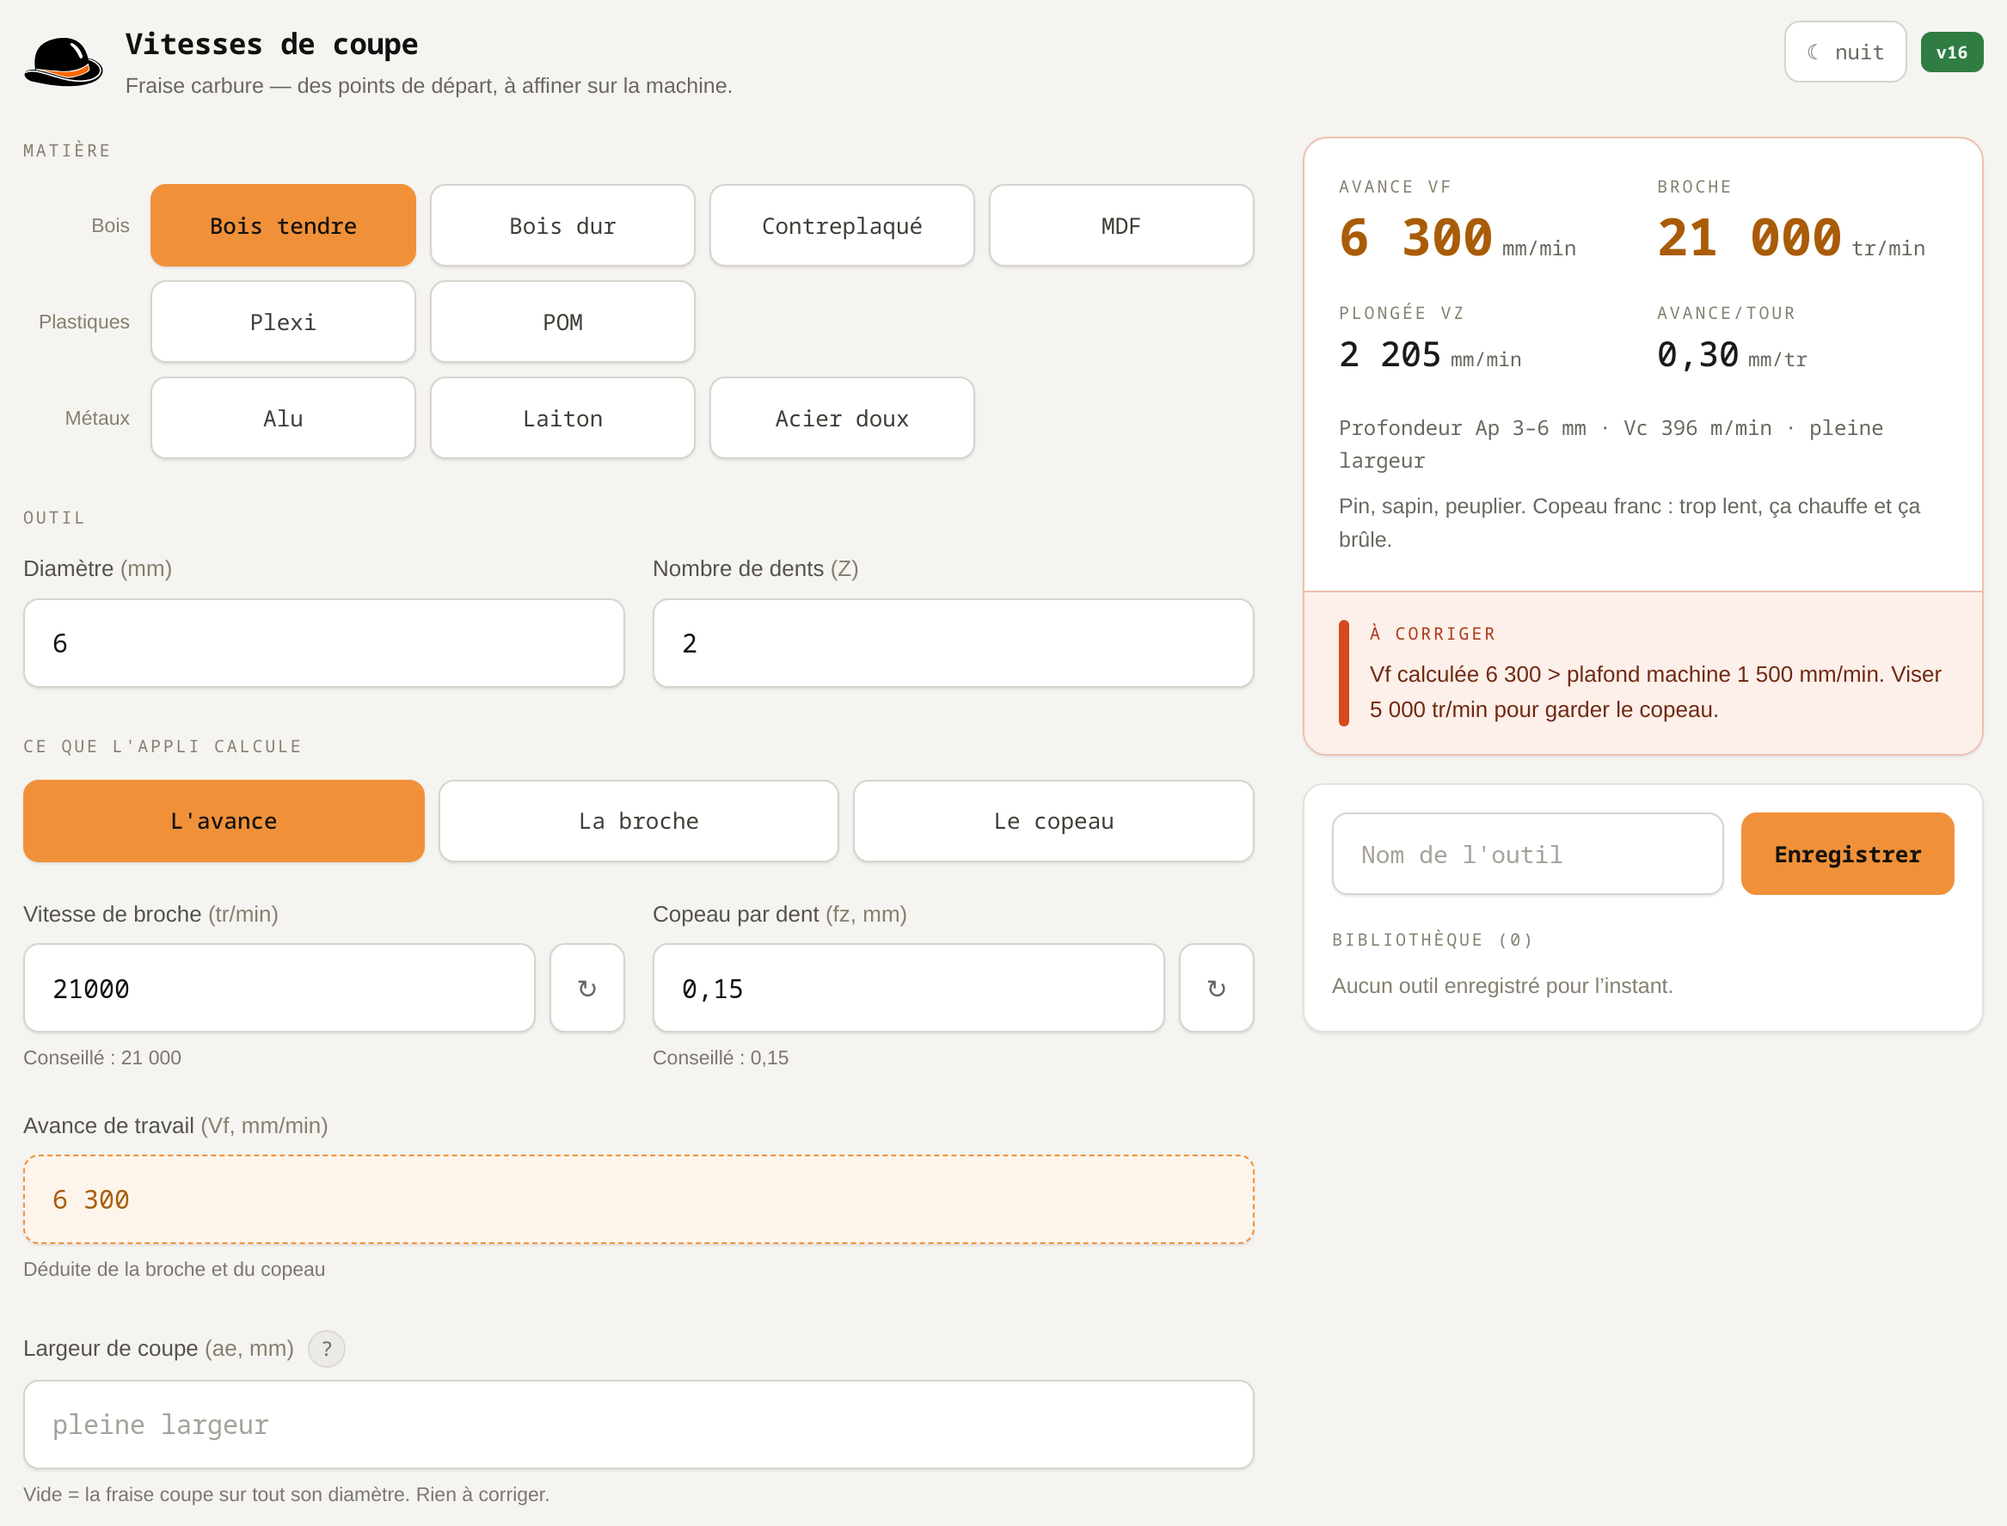
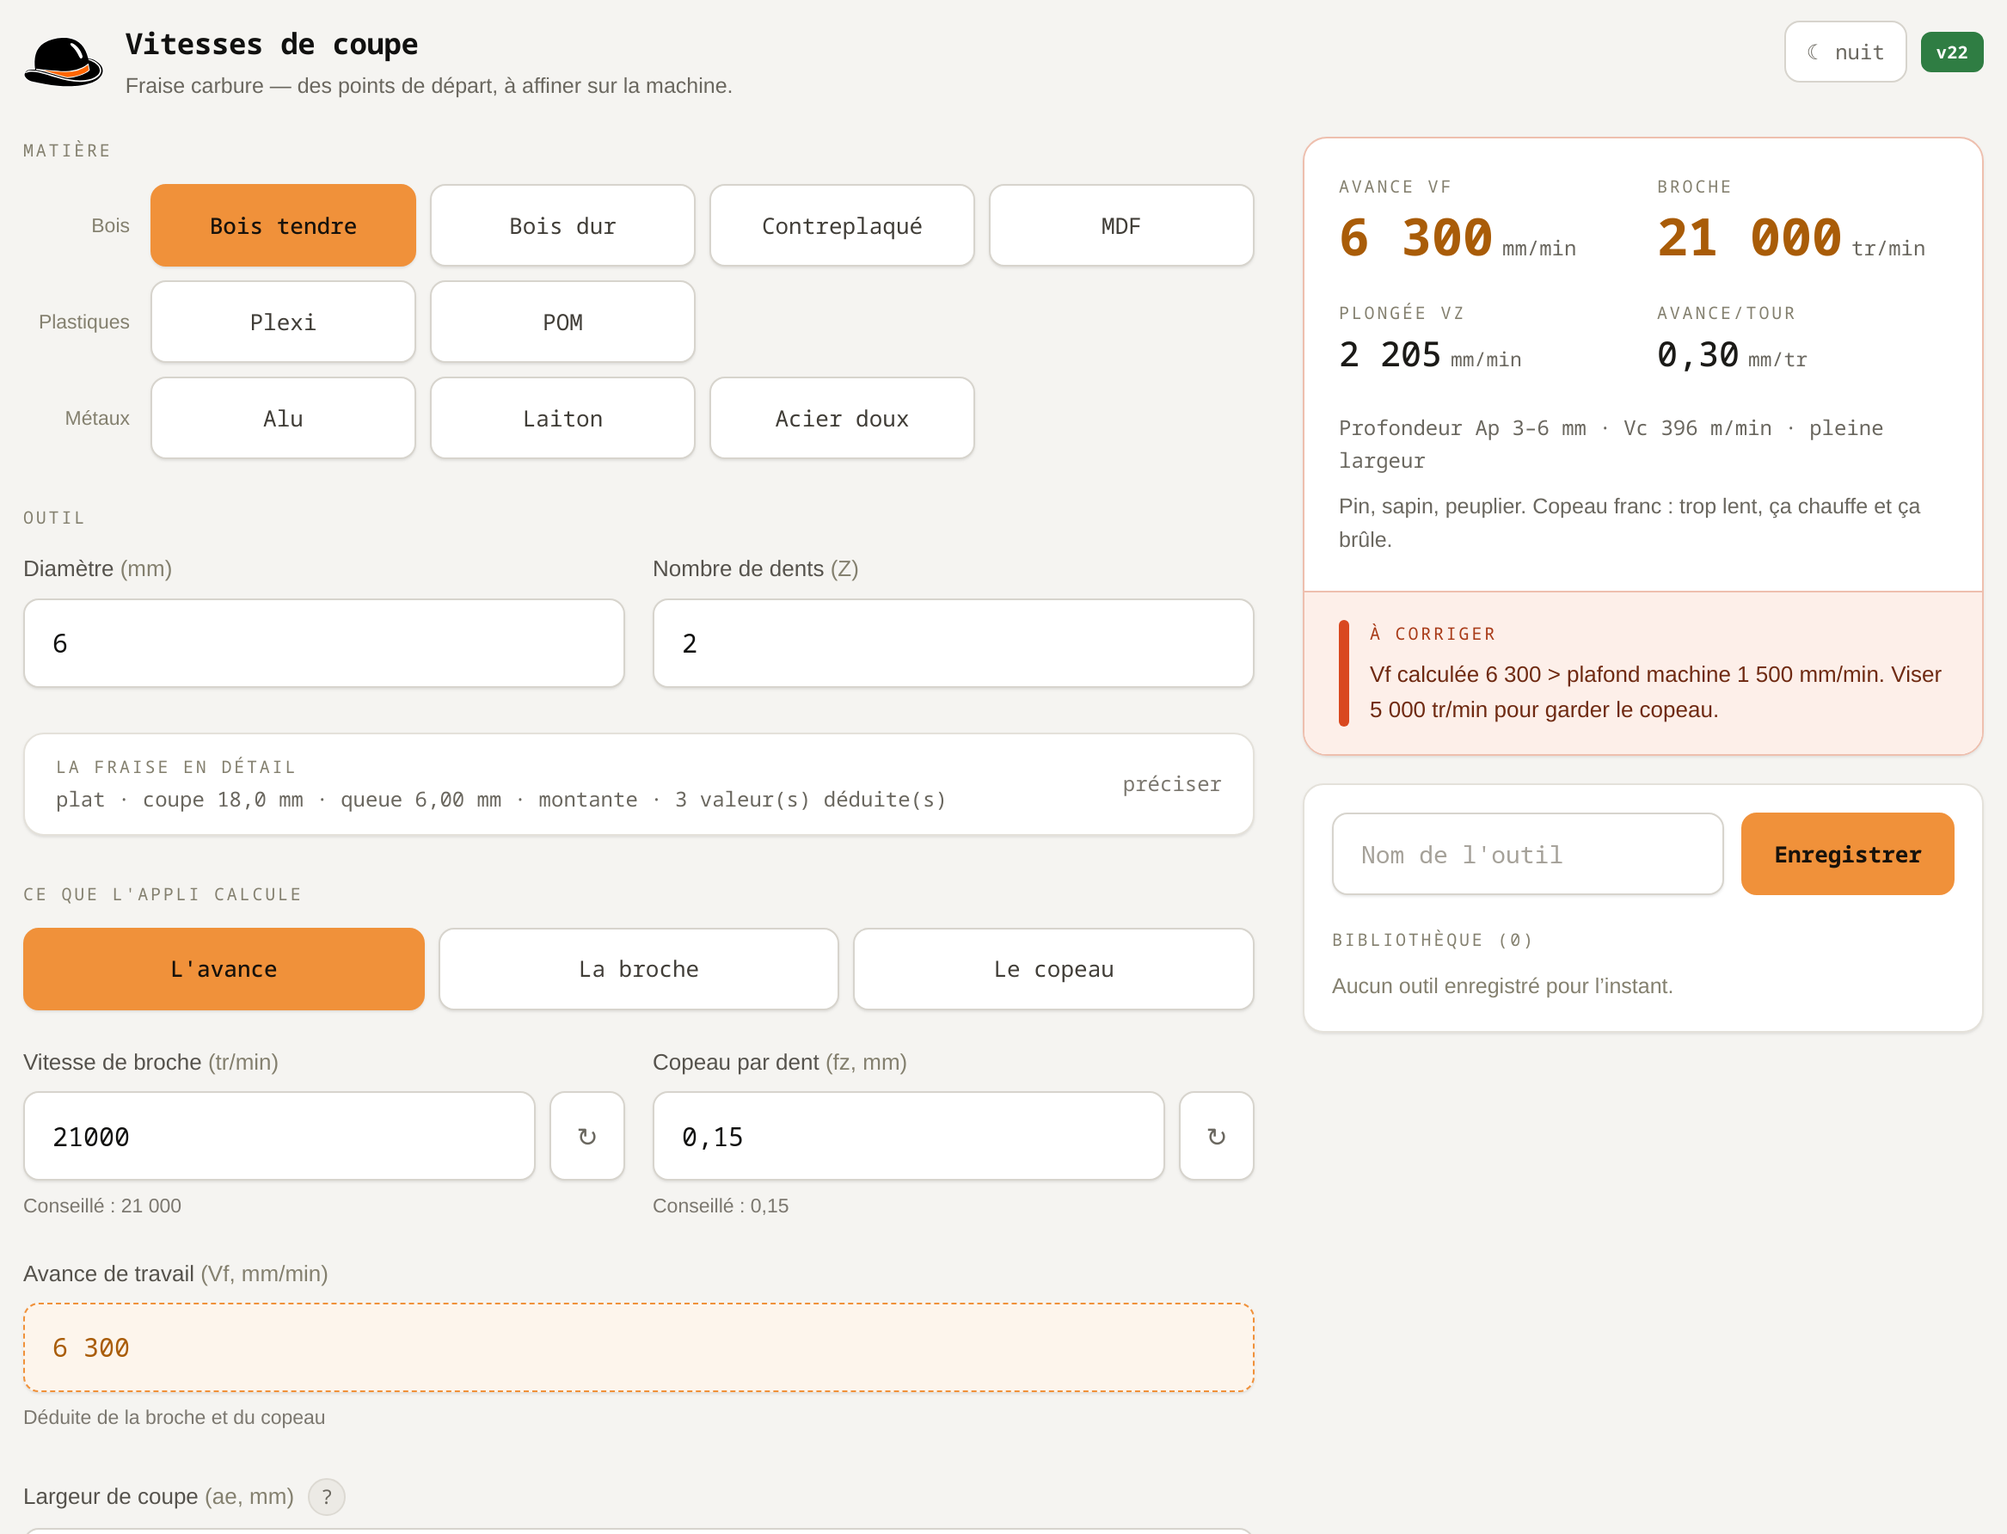
La fraise en detail : ce qui ne change pas les vitesses mais compte quand meme
Repli « La fraise en detail », ferme par defaut : forme du bout (plat,
boule, torique, V), hauteur de coupe, longueur totale, diametre de queue,
rayon de coin ou angle de pointe selon la forme, sens de l'helice, bout
plongeant. Qui ne l'ouvre pas garde l'appli d'avant.

RIEN DE TOUT CELA N'ENTRE DANS Vf = N x Z x fz, et c'est dit dans le
panneau. Cela sert a deux choses :

1. le fichier d'outil FreeCAD decrivait jusqu'ici une fraise INVENTEE —
   hauteur de coupe 3 x diametre, longueur 8 x diametre, queue au
   diametre de coupe. FreeCAD s'en sert pour la simulation de collision
   et la profondeur atteignable : il decrivait donc une fraise qui
   n'existe pas. Il porte maintenant les vraies cotes, la bonne forme
   (shape-type) et son parametre propre ;

2. trois avertissements que la formule ne peut pas donner : fraise
   descendante qui n'evacue pas vers le haut, bout non plongeant qui
   impose une entree en rampe, et hauteur de coupe plus courte que la
   passe conseillee.

Le resume du panneau replie dit l'essentiel sans l'ouvrir, et signale
combien de valeurs sont encore deduites.

CORRECTIF trouve par la console : le code appelait frd(), le formateur de
l'appli d'AVANT la refonte v16, renomme fmt() depuis. rendre() levait une
exception a chaque appel — le resume et les avertissements restaient
vides sans que rien ne le dise. Lire la console AVANT de conclure.

Cache a coupe-v22.

diff --git a/site/appli/coupe/index.html b/site/appli/coupe/index.html
@@ -160,6 +160,8 @@ input:focus{border-color:var(--accent);}
 /* Le champ DEDUIT : bordure pointillee, encre accent, non saisissable. */
 input.calcule{background:var(--calc); border:1px dashed var(--accent); color:var(--accent-ink);}
 .aide{font-size:11.5px; color:var(--help); padding-top:6px; display:block;}
+.case{display:flex; align-items:flex-start; gap:10px; font-size:13px; color:var(--label); cursor:pointer;}
+.case input{width:18px; height:18px; margin:1px 0 0; accent-color:var(--accent); flex:0 0 auto;}
 .avec-reset{display:grid; grid-template-columns:1fr 44px; gap:8px;}
 .reset{
   min-height:52px; border-radius:9px; cursor:pointer;
@@ -365,6 +367,54 @@ textarea{
         </div>
       </section>
 
+      <section class="panneau">
+        <button class="panneau-tete" id="teteFraise" type="button" aria-expanded="false" aria-controls="corpsFraise">
+          <span style="min-width:0">
+            <span class="sect-titre" style="display:block">La fraise en détail</span>
+            <span class="resume" id="resumeFraise"></span>
+          </span>
+          <span class="bascule" id="basculeFraise">préciser</span>
+        </button>
+        <div class="panneau-corps" id="corpsFraise" hidden>
+          <div class="sous" style="font-size:12.5px; color:var(--help); padding-bottom:14px">
+            Rien de tout ceci ne change les vitesses. C'est ce qui part dans le
+            fichier d'outil FreeCAD — et ce qui permet de prévenir de ce que la
+            formule ignore.
+          </div>
+          <div class="champ" style="margin-bottom:14px">
+            <label class="lbl">Forme du bout</label>
+            <div class="segments" id="formes"></div>
+          </div>
+          <div class="grille-machine">
+            <div class="champ">
+              <label for="hcoupe">Hauteur de coupe <span class="u">(mm)</span></label>
+              <input id="hcoupe" type="text" inputmode="decimal" placeholder="déduite">
+            </div>
+            <div class="champ">
+              <label for="lgtotale">Longueur totale <span class="u">(mm)</span></label>
+              <input id="lgtotale" type="text" inputmode="decimal" placeholder="déduite">
+            </div>
+            <div class="champ">
+              <label for="queue">Diamètre de queue <span class="u">(mm)</span></label>
+              <input id="queue" type="text" inputmode="decimal" placeholder="= diamètre de coupe">
+            </div>
+            <div class="champ" id="champExtra" hidden>
+              <label for="extra" id="lblExtra">Rayon de coin <span class="u">(mm)</span></label>
+              <input id="extra" type="text" inputmode="decimal" placeholder="déduit">
+            </div>
+          </div>
+          <div class="champ" style="margin-top:14px">
+            <label class="lbl">Sens de l'hélice</label>
+            <div class="segments" id="helices" style="flex-wrap:wrap"></div>
+            <span class="aide" id="aideHelice"></span>
+          </div>
+          <label class="case" style="margin-top:14px">
+            <input type="checkbox" id="plongeant" checked>
+            <span>Bout plongeant (fishtail) — peut entrer droit dans la matière</span>
+          </label>
+        </div>
+      </section>
+
       <section>
         <div class="sect-titre">Ce que l'appli calcule</div>
         <div class="segments" id="modes"></div>
@@ -557,12 +607,59 @@ function matParId(id){
   return MATS[0].items[0];
 }
 
+/* --- La fraise elle-même ---------------------------------------------
+   Rien ici n'entre dans Vf = N x Z x fz : la géométrie ne change PAS les
+   vitesses. Elle sert au fichier d'outil FreeCAD — qui décrit sinon une
+   fraise inventée — et aux avertissements que la formule ne peut pas
+   donner. Mêmes valeurs que `coupe_noyau.py`, côté appli de bureau. */
+var FORMES = [
+  {id:'plat',    label:'Plat',    shape:'endmill.fcstd',  type:'Endmill',  extra:null},
+  {id:'boule',   label:'Boule',   shape:'ballend.fcstd',  type:'Ballend',  extra:null},
+  {id:'torique', label:'Torique', shape:'bullnose.fcstd', type:'Bullnose',
+   extra:{label:'Rayon de coin', unite:'mm', cle:'CornerRadius', defaut:function(d){return Math.round(d/6*100)/100;}}},
+  {id:'vbit',    label:'V',       shape:'v-bit.fcstd',    type:'V-bit',
+   extra:{label:'Angle de pointe', unite:'°', cle:'CuttingEdgeAngle', defaut:function(){return 90;}}}
+];
+var HELICES = [
+  {id:'montante', label:'Montante',
+   note:'Les copeaux sortent vers le haut : rainures profondes possibles, mais la face du dessus s’écaille.'},
+  {id:'descendante', label:'Descendante',
+   note:'Belle face du dessus, mais les copeaux sont tassés dans la rainure.',
+   alerte:'Fraise descendante : les copeaux ne s’évacuent pas vers le haut. Passes moins profondes, et surveiller l’échauffement.'},
+  {id:'compression', label:'Compression',
+   note:'Propre des deux côtés, mais il lui faut une profondeur suffisante pour que la partie basse morde.',
+   alerte:'Fraise de compression : sous une certaine profondeur, la partie basse ne travaille pas et l’intérêt disparaît.'},
+  {id:'droite', label:'Droite',
+   note:'Pas d’hélice : effort axial faible, évacuation médiocre.'}
+];
+function formeParId(id){ for(var i=0;i<FORMES.length;i++) if(FORMES[i].id===id) return FORMES[i]; return FORMES[0]; }
+function heliceParId(id){ for(var i=0;i<HELICES.length;i++) if(HELICES[i].id===id) return HELICES[i]; return HELICES[0]; }
+
+/* Complète la géométrie, en déduisant ce qui n'a pas été saisi. */
+function geometrie(){
+  var d = num(S.d, 6);
+  var f = formeParId(S.forme);
+  var g = {forme:f, diametre:d,
+           hauteurCoupe:num(S.hcoupe, Math.round(d*3*100)/100),
+           longueur:num(S.lgtotale, Math.round(d*8*100)/100),
+           queue:num(S.queue, d),
+           deduit:[]};
+  if(!num(S.hcoupe,0)) g.deduit.push('hauteur de coupe');
+  if(!num(S.lgtotale,0)) g.deduit.push('longueur');
+  if(!num(S.queue,0)) g.deduit.push('queue');
+  if(f.extra) g.extra = num(S.extra, f.extra.defaut(d));
+  if(g.longueur < g.hauteurCoupe) g.longueur = Math.round(g.hauteurCoupe*1.5*100)/100;
+  return g;
+}
+
 /* --- État. `n`, `fz`, `vf` vides = on suit la valeur conseillée. ------ */
 var S = {
   mat:'bois-tendre', d:'6', z:'2', mode:'avance',
   n:'', fz:'', vf:'', ae:'',
   mMin:'1000', mMax:'24000', plunge:'35', vfMax:'1500',
   rapidH:'8000', rapidV:'2700',
+  forme:'plat', hcoupe:'', lgtotale:'', queue:'', extra:'',
+  helice:'montante', plongeant:true, fraiseOpen:false,
   machineOpen:false, aeOpen:false, tool:'', lib:[]
 };
 var K_LIB='fs_tools', K_PREFS='fs_prefs', K_THEME='coupe_theme';
@@ -668,6 +765,32 @@ function construireMatieres(){
     ligne.appendChild(lbl); ligne.appendChild(grille); c.appendChild(ligne);
   });
 }
+function construireFormes(){
+  var c = $('formes'); c.innerHTML='';
+  FORMES.forEach(function(f){
+    var b = document.createElement('button');
+    b.type='button'; b.className='choix'+(S.forme===f.id?' on':''); b.textContent=f.label;
+    b.onclick=function(){ S.forme=f.id; S.extra=''; construireFormes(); rendre(); };
+    c.appendChild(b);
+  });
+  var f = formeParId(S.forme);
+  $('champExtra').hidden = !f.extra;
+  if(f.extra){
+    $('lblExtra').innerHTML = f.extra.label+' <span class="u">('+f.extra.unite+')</span>';
+    $('extra').placeholder = 'déduit';
+  }
+}
+function construireHelices(){
+  var c = $('helices'); c.innerHTML='';
+  HELICES.forEach(function(h){
+    var b = document.createElement('button');
+    b.type='button'; b.className='choix'+(S.helice===h.id?' on':''); b.textContent=h.label;
+    b.style.flex='1 1 40%';
+    b.onclick=function(){ S.helice=h.id; construireHelices(); rendre(); };
+    c.appendChild(b);
+  });
+  $('aideHelice').textContent = heliceParId(S.helice).note;
+}
 function construireModes(){
   var c = $('modes'); c.innerHTML='';
   [['avance',"L'avance"],['broche','La broche'],['copeau','Le copeau']].forEach(function(p){
@@ -726,6 +849,27 @@ function rendre(){
         + (r.ae > 0 ? 'ae ' + String(num(S.ae,0)).replace('.', ',') + ' mm' : 'pleine largeur');
   $('oNote').textContent = r.m.note;
 
+  // Ce que la géométrie impose et que la formule ne dit pas.
+  var g = geometrie();
+  var avertFraise = [];
+  var h = heliceParId(S.helice);
+  if(h.alerte) avertFraise.push(h.alerte);
+  if(!S.plongeant) avertFraise.push('Bout non plongeant : entrer en rampe ou en '
+    + 'hélice, jamais droit dans la matière.');
+  var profondeurs = (r.m.ap || '').match(/[\d,]+/g) || [];
+  var apMax = 0;
+  profondeurs.forEach(function(x){ var v=parseFloat(x.replace(',','.')); if(v>apMax) apMax=v; });
+  if(apMax && g.hauteurCoupe < apMax)
+    avertFraise.push('La fraise ne coupe que sur '+fmt(g.hauteurCoupe,1)+' mm, moins '
+      + 'que la passe conseillée : plusieurs passes, ou une fraise plus longue.');
+  r.warns = r.warns.concat(avertFraise);
+
+  // Le résumé du panneau replié, pour savoir sans l'ouvrir.
+  $('resumeFraise').textContent = g.forme.label.toLowerCase()
+    + ' · coupe ' + fmt(g.hauteurCoupe,1) + ' mm · queue ' + fmt(g.queue,2) + ' mm · '
+    + heliceParId(S.helice).label.toLowerCase()
+    + (g.deduit.length ? ' · ' + g.deduit.length + ' valeur(s) déduite(s)' : '');
+
   var alerte = r.warns.length > 0;
   $('carteResultat').classList.toggle('alerte', alerte);
   $('blocAvert').hidden = !alerte;
@@ -774,8 +918,13 @@ function rendreBiblio(){
       S.mat = it.mat; S.d = String(it.d); S.z = String(it.z);
       S.n = String(it.n); S.fz = String(it.fz); S.ae = it.ae ? String(it.ae) : '';
       S.vf = ''; S.mode = 'avance';
+      S.forme = it.forme || 'plat'; S.hcoupe = it.hcoupe || ''; S.lgtotale = it.lgtotale || '';
+      S.queue = it.queue || ''; S.extra = it.extra || '';
+      S.helice = it.helice || 'montante'; S.plongeant = (it.plongeant !== false);
       $('d').value = S.d; $('z').value = S.z; $('ae').value = S.ae;
-      construireMatieres(); construireModes(); rendre();
+      ['hcoupe','lgtotale','queue','extra'].forEach(function(k){ $(k).value = S[k]; });
+      $('plongeant').checked = S.plongeant;
+      construireMatieres(); construireModes(); construireFormes(); construireHelices(); rendre();
       window.scrollTo({top:0, behavior:'smooth'});
     };
     var del = document.createElement('button');
@@ -787,11 +936,26 @@ function rendreBiblio(){
   rendreExport();
 }
 function fctb(t){
+  // Le fichier décrit la fraise TELLE QU'ELLE EST quand on l'a renseignée,
+  // et non plus une fraise inventée à partir du seul diamètre : FreeCAD
+  // s'en sert pour la simulation de collision et la profondeur atteignable.
   var d = num(t.d, 6);
-  return JSON.stringify({version:2, name:t.name, shape:'endmill.fcstd', parameter:{
-    Diameter:d+' mm', Flutes:Math.max(1,Math.round(num(t.z,2))), Chipload:num(t.fz,0)+' mm',
-    CuttingEdgeHeight:(d*3).toFixed(2)+' mm', Length:(d*8).toFixed(2)+' mm',
-    ShankDiameter:d+' mm', Material:'Carbide'}, attribute:{}}, null, 2);
+  var f = formeParId(t.forme || 'plat');
+  var p = {
+    Diameter: d+' mm',
+    Flutes: Math.max(1, Math.round(num(t.z,2))),
+    Chipload: num(t.fz,0)+' mm',
+    CuttingEdgeHeight: (num(t.hcoupe, Math.round(d*3*100)/100))+' mm',
+    Length: (num(t.lgtotale, Math.round(d*8*100)/100))+' mm',
+    ShankDiameter: (num(t.queue, d))+' mm',
+    Material: 'Carbide'
+  };
+  if(f.extra && f.id==='torique') p.CornerRadius = num(t.extra, d/6)+' mm';
+  if(f.extra && f.id==='vbit'){ p.CuttingEdgeAngle = num(t.extra, 90)+' °'; p.TipDiameter = '0.1 mm'; }
+  return JSON.stringify({version:2, name:t.name, shape:f.shape, 'shape-type':f.type,
+    parameter:p,
+    // Ce que FreeCAD ne sait pas ranger, mais qu'on ne veut pas perdre.
+    attribute:{helice:t.helice||'montante', plongeant:t.plongeant!==false}}, null, 2);
 }
 function rendreExport(){
   $('jsonBox').value = JSON.stringify(S.lib, null, 2);
@@ -918,11 +1082,21 @@ function forcerMaj(){
   charger();
   construireMatieres();
   construireModes();
+  construireFormes();
+  construireHelices();
+  $('plongeant').addEventListener('change', function(){ S.plongeant = this.checked; rendre(); });
+  $('teteFraise').onclick = function(){
+    S.fraiseOpen = !S.fraiseOpen;
+    $('corpsFraise').hidden = !S.fraiseOpen;
+    $('basculeFraise').textContent = S.fraiseOpen ? 'replier' : 'préciser';
+    this.setAttribute('aria-expanded', S.fraiseOpen ? 'true' : 'false');
+  };
 
   // Les champs de saisie alimentent l'état, puis on recalcule tout.
   [['d','d'],['z','z'],['n','n'],['fz','fz'],['vf','vf'],['ae','ae'],
    ['mMin','mMin'],['mMax','mMax'],['plunge','plunge'],['vfMax','vfMax'],
    ['rapidH','rapidH'],['rapidV','rapidV'],
+   ['hcoupe','hcoupe'],['lgtotale','lgtotale'],['queue','queue'],['extra','extra'],
    ['tool','tool']].forEach(function(p){
     $(p[0]).addEventListener('input', function(){ S[p[1]] = this.value; rendre(); });
   });
@@ -954,7 +1128,11 @@ function forcerMaj(){
       // transport, propres a la machine. On les emporte quand meme avec
       // l'outil pour que le Tool Controller de FreeCAD soit rempli en
       // entier — c'est lui qui les reclame, pas la fraise.
-      rapidH:Math.round(num(S.rapidH,8000)), rapidV:Math.round(num(S.rapidV,2700))
+      rapidH:Math.round(num(S.rapidH,8000)), rapidV:Math.round(num(S.rapidV,2700)),
+      // La géométrie suit l'outil : sans elle, le fichier FreeCAD
+      // redeviendrait une fraise inventée au rechargement.
+      forme:S.forme, hcoupe:S.hcoupe, lgtotale:S.lgtotale, queue:S.queue,
+      extra:S.extra, helice:S.helice, plongeant:S.plongeant
     };
     // Un même nom remplace l'ancien plutôt que de créer un doublon.
     var i = -1;

diff --git a/site/appli/coupe/sw.js b/site/appli/coupe/sw.js
@@ -3,7 +3,7 @@
 // (coupe-v2 -> coupe-v3 ...) — sans quoi les visiteurs gardent l'ancienne
 // version, servie par leur propre cache. Le navigateur recompare ce fichier
 // à chaque visite : c'est lui qui déclenche le renouvellement.
-const CACHE = "coupe-v20";
+const CACHE = "coupe-v22";
 const PORTEE = new URL("./", self.location).pathname;
 const ASSETS = [
   "./",
